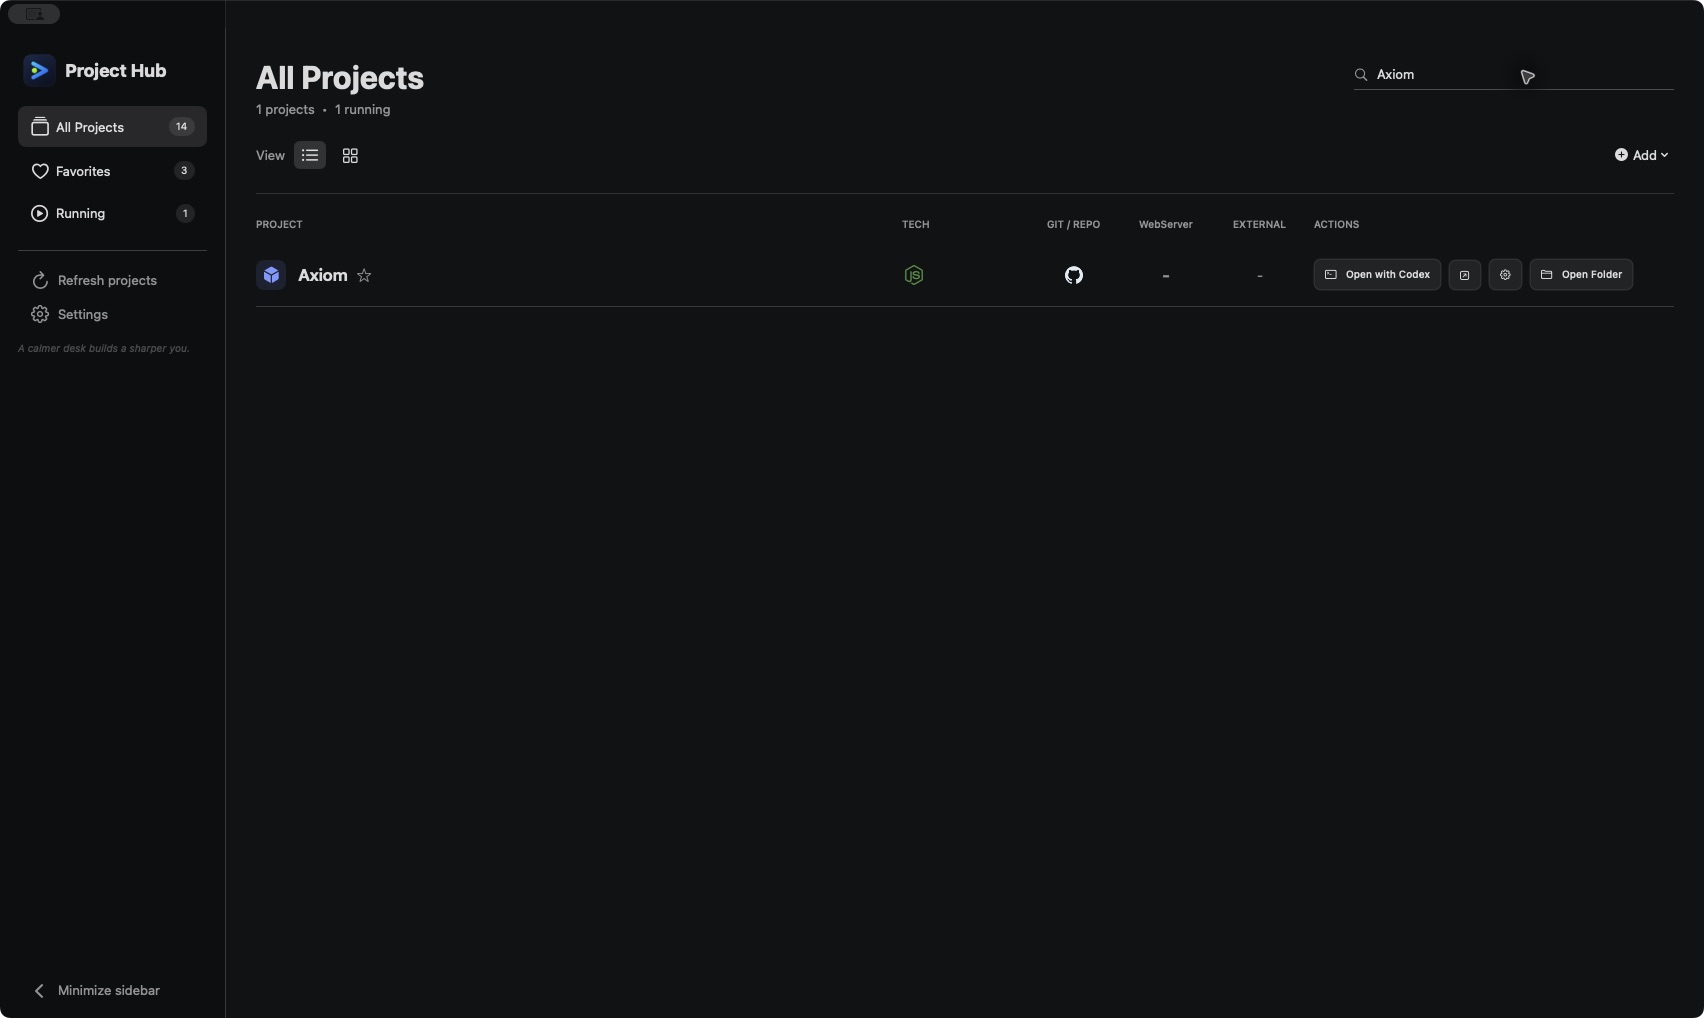
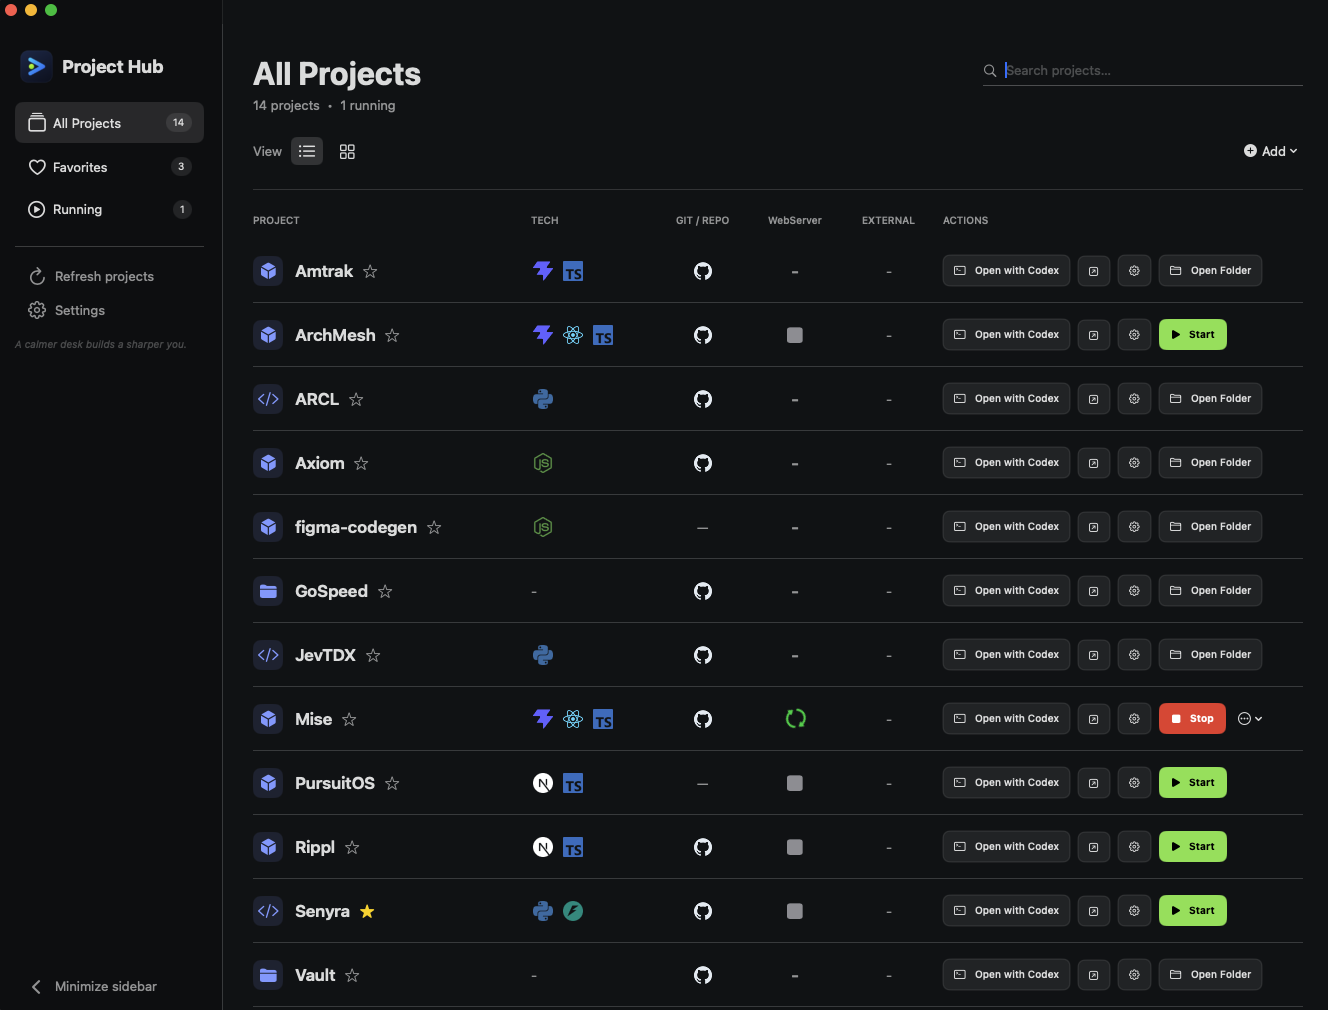
Use full project list screenshot in README

diff --git a/README.md b/README.md
@@ -2,7 +2,7 @@
 
 ProjectHub is a local macOS app for finding code projects, opening them in an editor or AI command-line tool, and starting development servers.
 
-![Project Hub showing a public example project](docs/images/project-hub-list.png)
+![Project Hub showing a list of local projects](docs/images/project-hub-list.png)
 
 ## Download and install
 
